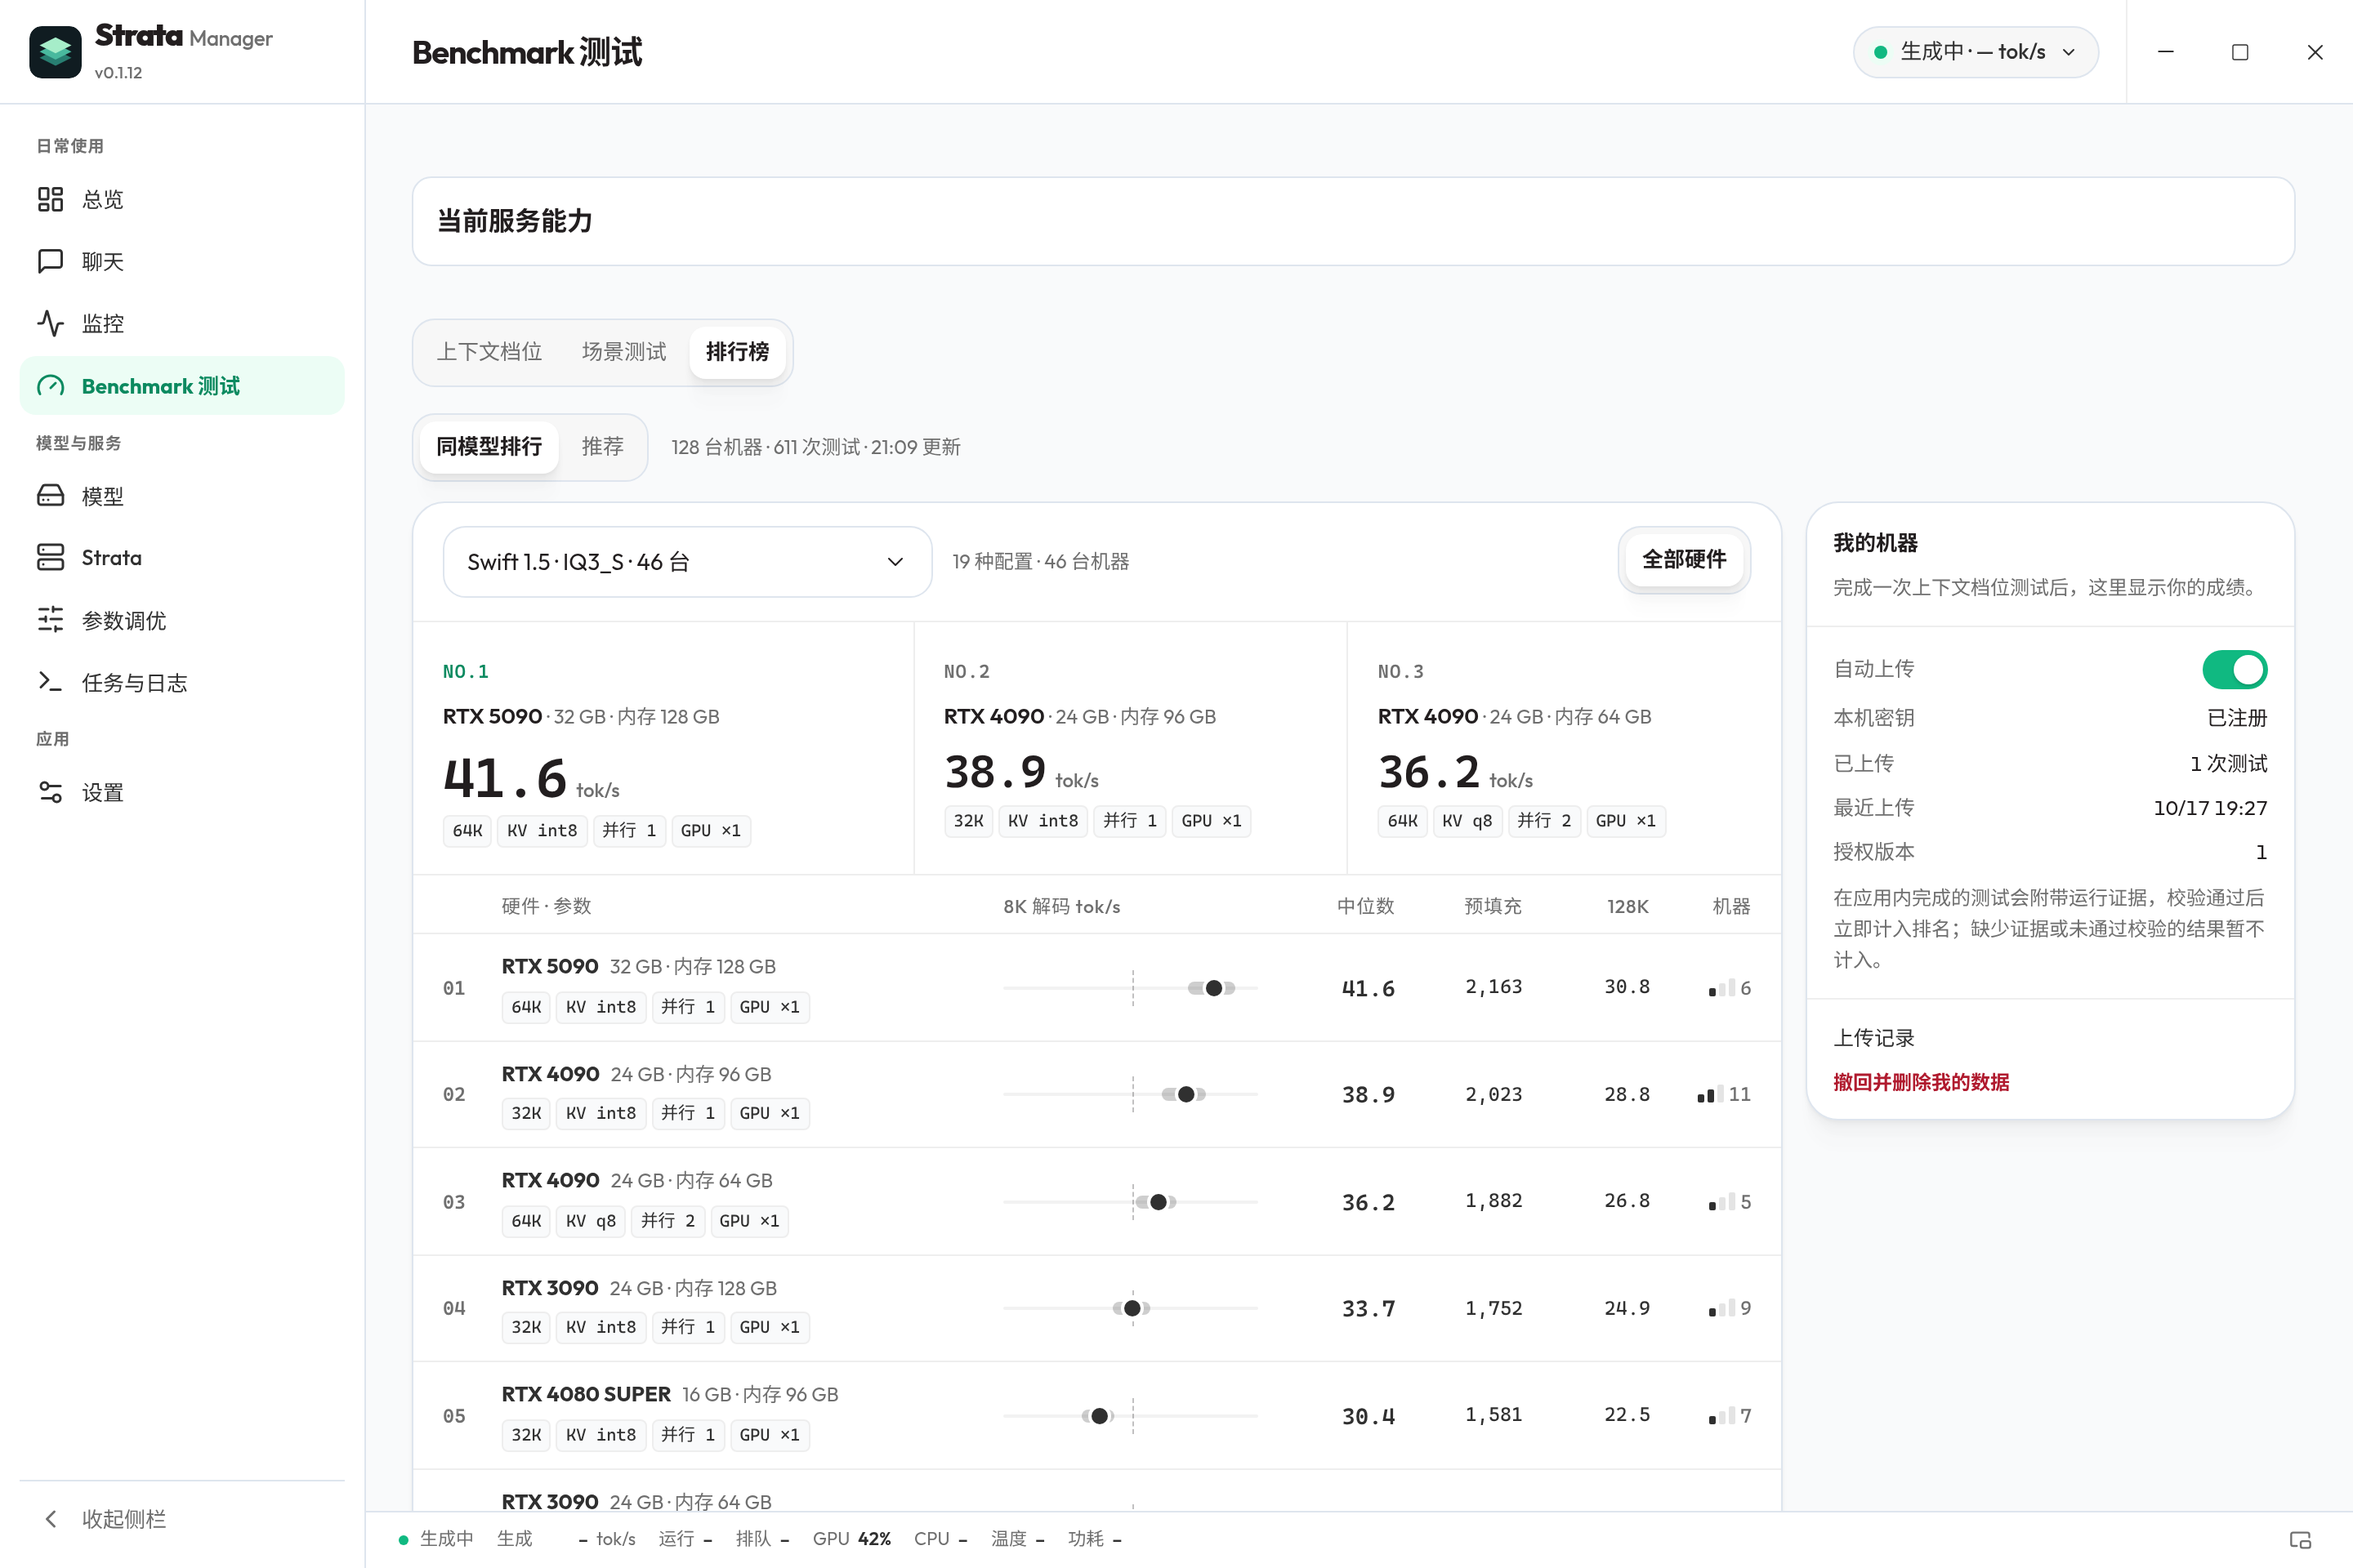
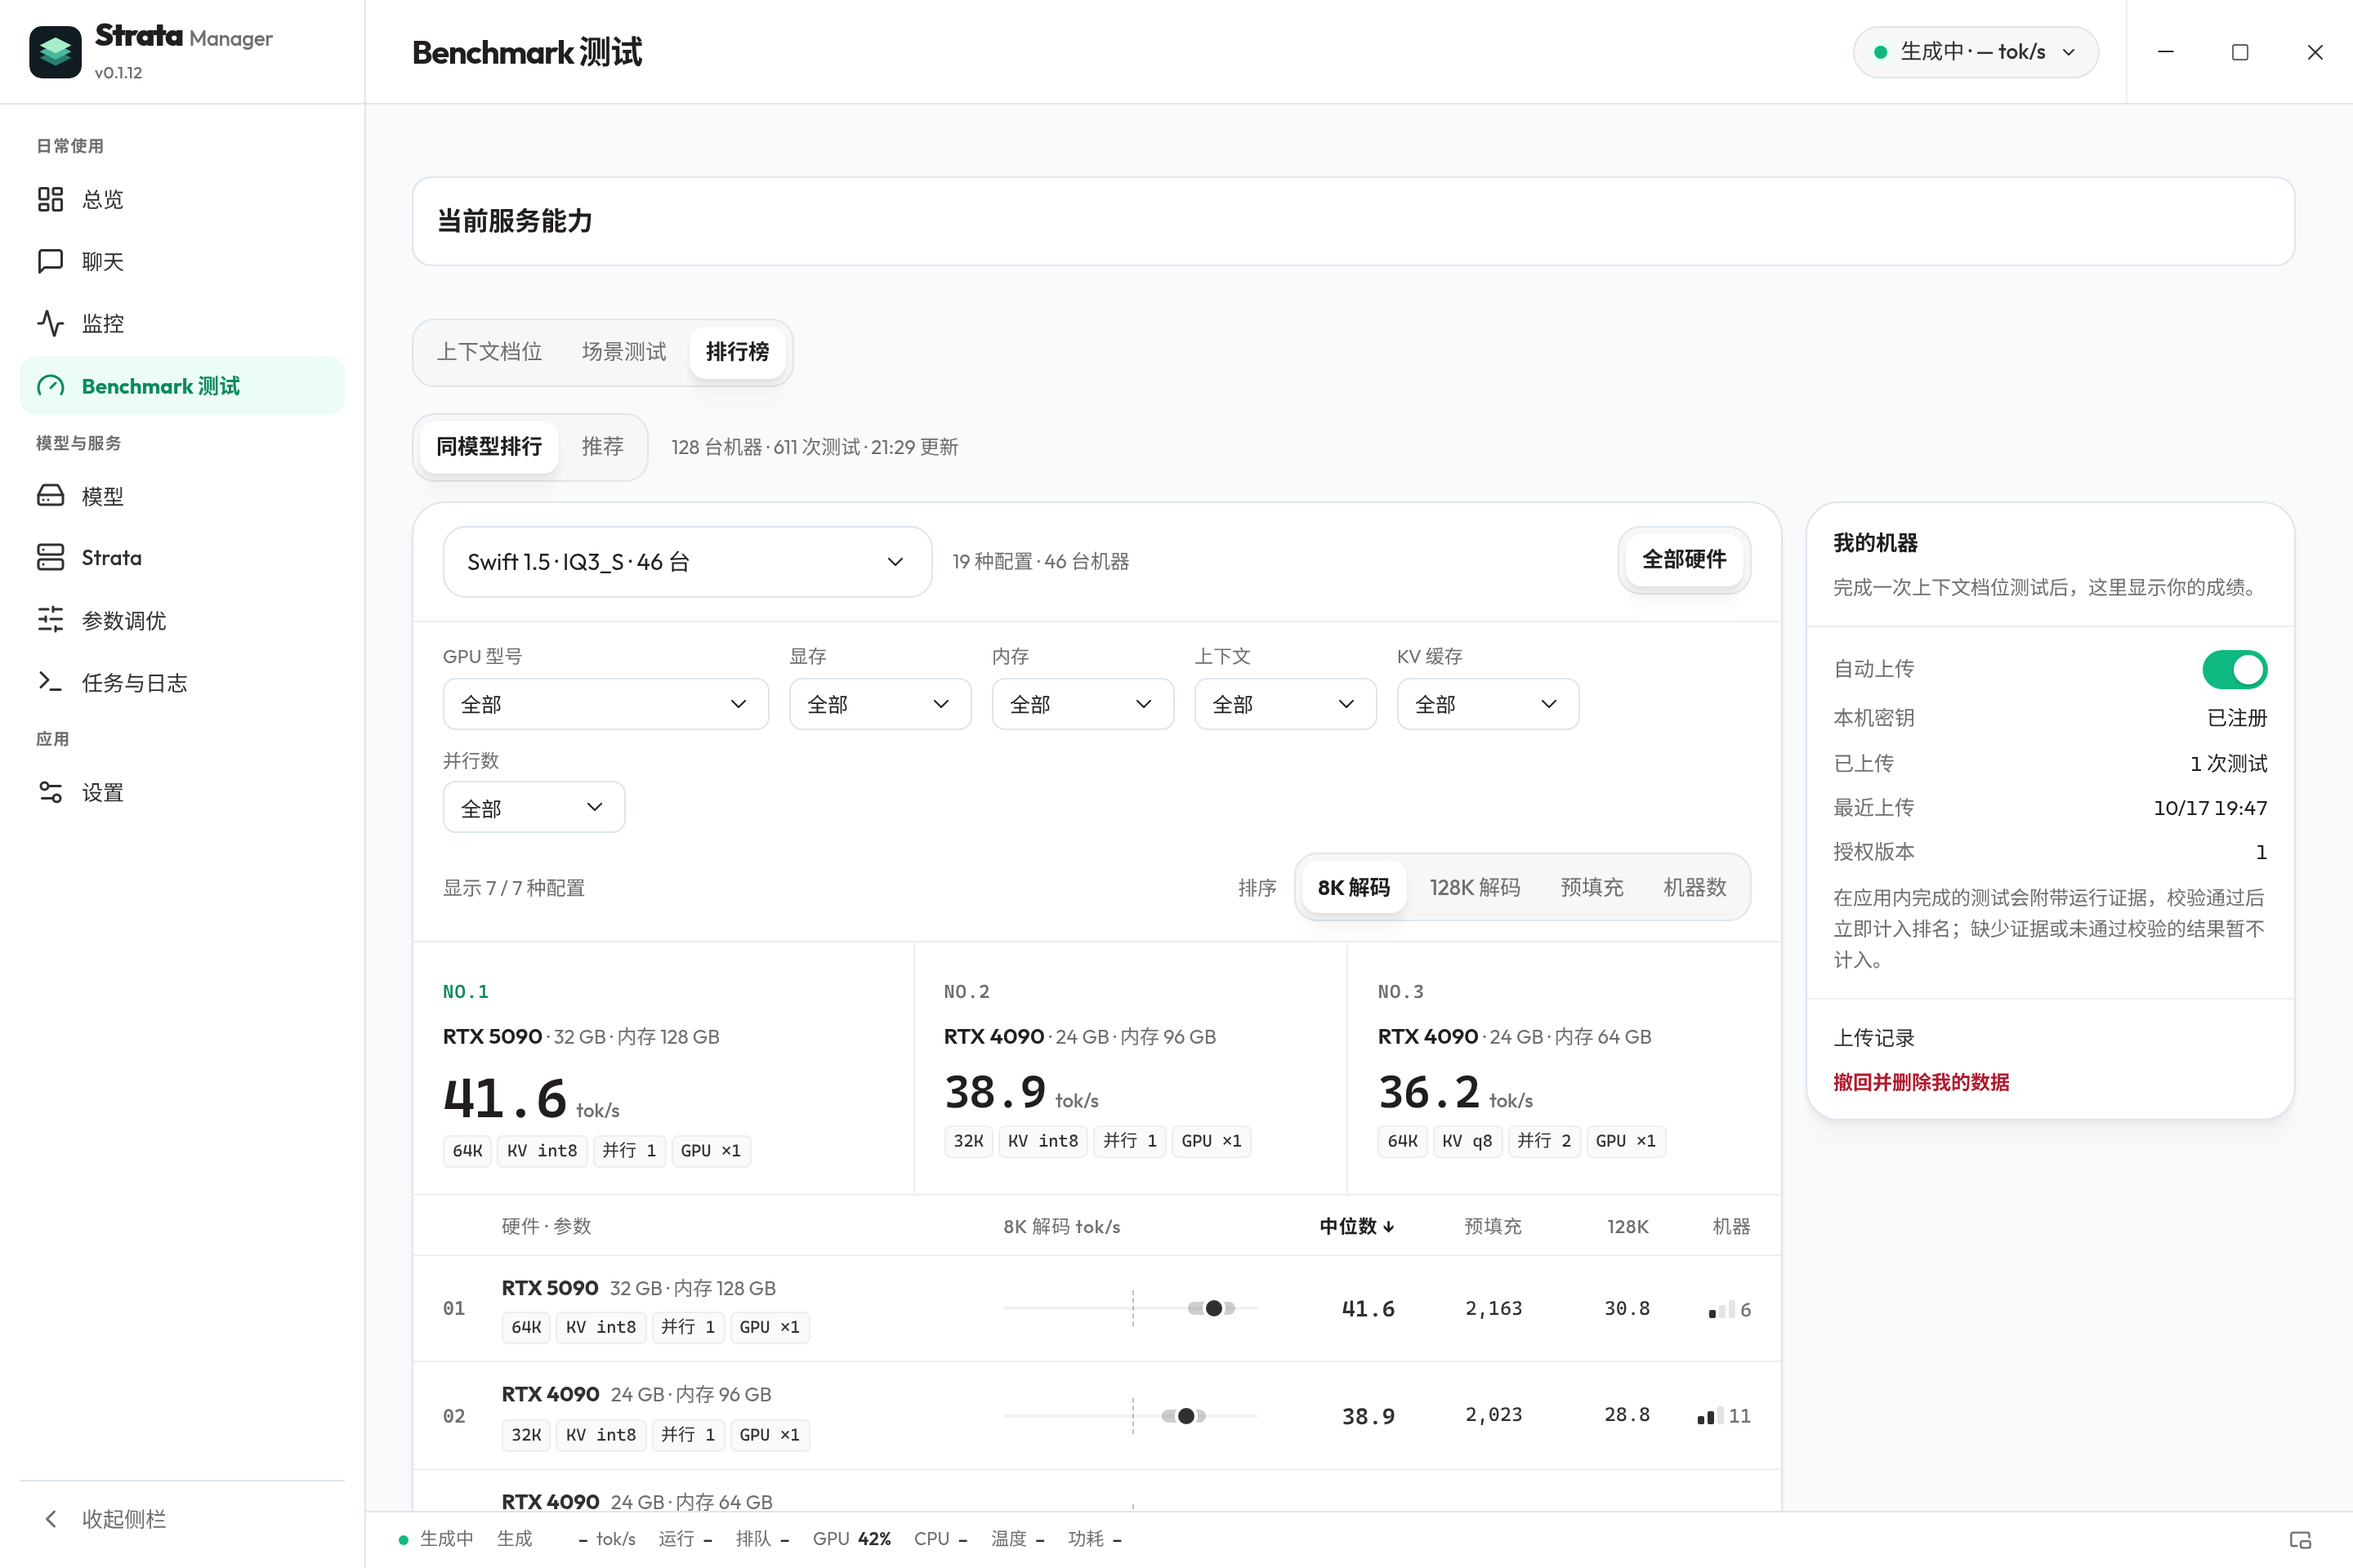
docs: recapture the leaderboard screenshots with filters and sorting

diff --git a/website/index.html b/website/index.html
@@ -202,7 +202,7 @@
           <figure class="gallery-item" id="screen-chat-execution"><a class="gallery-preview open-lightbox-btn" href="assets/screenshots/daily-experience/chat-execution.zh.webp" data-href-en="assets/screenshots/daily-experience/chat-execution.en.webp" data-target="chat-execution" aria-label="放大聊天执行计时" data-label-en="Enlarge chat execution timing"><img src="assets/screenshots/daily-experience/chat-execution.zh.webp" data-src-en="assets/screenshots/daily-experience/chat-execution.en.webp" width="2880" height="1920" decoding="async" alt="聊天请求计时" data-alt-en="Chat request timing"><span class="image-expand" aria-hidden="true"><svg class="icon"><use href="#icon-expand"/></svg></span></a><figcaption><h3 data-en="Chat · Request timing">聊天 · 请求计时</h3><p data-en="Waiting, thinking, tools and body stay separate; TTFT and totals use this request only.">分别展示等待、思考、工具和正文；TTFT 与总耗时只用这次请求的证据。</p></figcaption></figure>
           <figure class="gallery-item" id="screen-api-usage"><a class="gallery-preview open-lightbox-btn" href="assets/screenshots/daily-experience/api-usage.zh.webp" data-href-en="assets/screenshots/daily-experience/api-usage.en.webp" data-target="api-usage" aria-label="放大 API 用量" data-label-en="Enlarge API usage"><img src="assets/screenshots/daily-experience/api-usage.zh.webp" data-src-en="assets/screenshots/daily-experience/api-usage.en.webp" width="2880" height="1920" decoding="async" alt="API 用量趋势" data-alt-en="API usage trends"><span class="image-expand" aria-hidden="true"><svg class="icon"><use href="#icon-expand"/></svg></span></a><figcaption><h3 data-en="Usage · Requests and tokens">用量 · 请求与 tokens</h3><p data-en="Requests, tokens, latency and cache reuse; stats never capture request bodies.">看请求、tokens、延迟和缓存复用趋势；统计不抓请求正文。</p></figcaption></figure>
           <figure class="gallery-item" id="screen-history-comparison"><a class="gallery-preview open-lightbox-btn" href="assets/screenshots/daily-experience/history-comparison.zh.webp" data-href-en="assets/screenshots/daily-experience/history-comparison.en.webp" data-target="history-comparison" aria-label="放大历史条件对照" data-label-en="Enlarge historical conditions"><img src="assets/screenshots/daily-experience/history-comparison.zh.webp" data-src-en="assets/screenshots/daily-experience/history-comparison.en.webp" width="2880" height="1920" decoding="async" alt="历史 Benchmark 条件比较" data-alt-en="Historical benchmark condition comparison"><span class="image-expand" aria-hidden="true"><svg class="icon"><use href="#icon-expand"/></svg></span></a><figcaption><h3 data-en="Benchmark · Compare conditions">Benchmark · 对照条件</h3><p data-en="Keep a pre-upgrade baseline; weak identity blocks direct speedup claims.">升级前留基线，比对身份、输入、缓存和资源；弱身份不下直接提速结论。</p></figcaption></figure>
-          <figure class="gallery-item" id="screen-arena" style="grid-column:1 / -1"><a class="gallery-preview open-lightbox-btn" href="assets/screenshots/arena.zh.webp" data-href-en="assets/screenshots/arena.en.webp" data-target="arena" aria-label="放大 Benchmark 排行榜" data-label-en="Enlarge the Benchmark leaderboard"><img src="assets/screenshots/arena.zh.webp" data-src-en="assets/screenshots/arena.en.webp" width="2880" height="1920" decoding="async" alt="Benchmark 排行榜：同模型同量化在不同硬件上的解码速度与参数" data-alt-en="Benchmark leaderboard: decode speed and parameters for the same model and quantization across hardware"><span class="image-expand" aria-hidden="true"><svg class="icon"><use href="#icon-expand"/></svg></span></a><figcaption><h3 data-en="Benchmark · Leaderboard">Benchmark · 排行榜</h3><p data-en="Compare the same model and quantization across GPUs, with the parameters behind each result and recommendations for this machine. Sharing is opt-in, and you can withdraw your data.">按同模型、同量化对比不同显卡的成绩和对应参数，并给出本机的调参建议。分享需要你同意，也可随时撤回数据。</p><p class="gallery-related"><a class="text-link" href="leaderboard.html" data-href-en="leaderboard.en.html" data-en="Public leaderboard ↗">公开排行榜 ↗</a></p></figcaption></figure>
+          <figure class="gallery-item" id="screen-arena" style="grid-column:1 / -1"><a class="gallery-preview open-lightbox-btn" href="assets/screenshots/arena.zh.webp" data-href-en="assets/screenshots/arena.en.webp" data-target="arena" aria-label="放大 Benchmark 排行榜" data-label-en="Enlarge the Benchmark leaderboard"><img src="assets/screenshots/arena.zh.webp" data-src-en="assets/screenshots/arena.en.webp" width="2880" height="1920" decoding="async" alt="Benchmark 排行榜：同模型同量化在不同硬件上的解码速度与参数" data-alt-en="Benchmark leaderboard: decode speed and parameters for the same model and quantization across hardware"><span class="image-expand" aria-hidden="true"><svg class="icon"><use href="#icon-expand"/></svg></span></a><figcaption><h3 data-en="Benchmark · Leaderboard">Benchmark · 排行榜</h3><p data-en="Compare the same model and quantization across GPUs with the parameters behind each result, filter by VRAM, RAM and launch parameters, switch the sort order, and get recommendations for this machine. Sharing is opt-in, and you can withdraw your data.">按同模型、同量化对比不同显卡的成绩和对应参数，可按显存、内存与启动参数筛选并切换排序，还给出本机的调参建议。分享需要你同意，也可随时撤回数据。</p><p class="gallery-related"><a class="text-link" href="leaderboard.html" data-href-en="leaderboard.en.html" data-en="Public leaderboard ↗">公开排行榜 ↗</a></p></figcaption></figure>
         </div>
         <p class="compatibility-note"><a class="text-link" href="docs/user-guide.html#当前版本功能" data-href-en="docs/user-guide.en.html#current-features" data-en="Read the usage guide ↗">阅读使用说明 ↗</a></p>
       </div>

diff --git a/website/app.js b/website/app.js
@@ -289,8 +289,8 @@ const strataReleaseCatalog = (() => {
     },
     "arena": {
       "index": "04", "image": "arena",
-      "zh": { "title": "Benchmark · 排行榜", "description": "同模型、同量化对比不同硬件的成绩和参数。", "alt": "Benchmark 排行榜，示例数据", "badge": "排行榜" },
-      "en": { "title": "Benchmark · Leaderboard", "description": "Compare the same model and quantization across hardware.", "alt": "Benchmark leaderboard, example data", "badge": "LEADERBOARD" }
+      "zh": { "title": "Benchmark · 排行榜", "description": "同模型、同量化对比不同硬件，可筛选并切换排序。", "alt": "Benchmark 排行榜，示例数据", "badge": "排行榜" },
+      "en": { "title": "Benchmark · Leaderboard", "description": "Compare the same model and quantization across hardware, with filters and sorting.", "alt": "Benchmark leaderboard, example data", "badge": "LEADERBOARD" }
     },
     "running-services": {
       "index": "15", "image": "running-services",

diff --git a/README.md b/README.md
@@ -94,7 +94,7 @@ The desktop installer contains Manager and its background process. Hardware and 
 
 | Getting started guide | Old-version configuration cleanup | Benchmark leaderboard |
 | --- | --- | --- |
-| [![Getting started guide: environment, Strata, model choice filtered by this computer's memory, download and first chat](docs/screenshots/onboarding.en.webp)](https://raw.githubusercontent.com/hongfaqiu/strata-manager/main/docs/screenshots/onboarding.en.webp) | [![Old-version configuration cleanup: run configurations grouped by Strata version, archived restorably](docs/screenshots/config-cleanup.en.webp)](https://raw.githubusercontent.com/hongfaqiu/strata-manager/main/docs/screenshots/config-cleanup.en.webp) | [![Benchmark leaderboard: the same model and quantization compared across hardware, with parameters and recommendations](docs/screenshots/arena.en.webp)](https://raw.githubusercontent.com/hongfaqiu/strata-manager/main/docs/screenshots/arena.en.webp) |
+| [![Getting started guide: environment, Strata, model choice filtered by this computer's memory, download and first chat](docs/screenshots/onboarding.en.webp)](https://raw.githubusercontent.com/hongfaqiu/strata-manager/main/docs/screenshots/onboarding.en.webp) | [![Old-version configuration cleanup: run configurations grouped by Strata version, archived restorably](docs/screenshots/config-cleanup.en.webp)](https://raw.githubusercontent.com/hongfaqiu/strata-manager/main/docs/screenshots/config-cleanup.en.webp) | [![Benchmark leaderboard: the same model and quantization compared across hardware, with filters, sorting, parameters and recommendations](docs/screenshots/arena.en.webp)](https://raw.githubusercontent.com/hongfaqiu/strata-manager/main/docs/screenshots/arena.en.webp) |
 
 <details>
 <summary><strong>More interfaces: runtime, chat, shared settings, connections, updates, benchmarking and monitoring</strong></summary>
